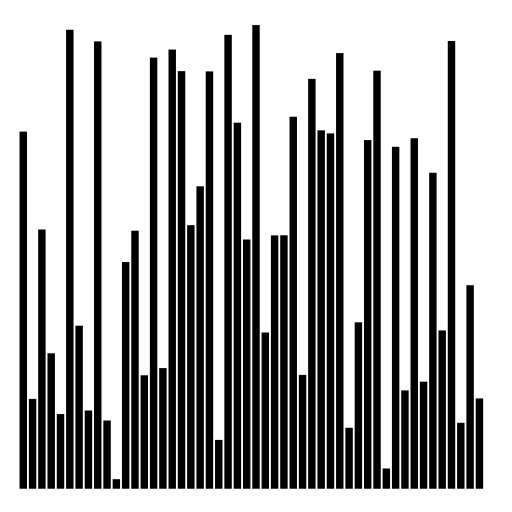
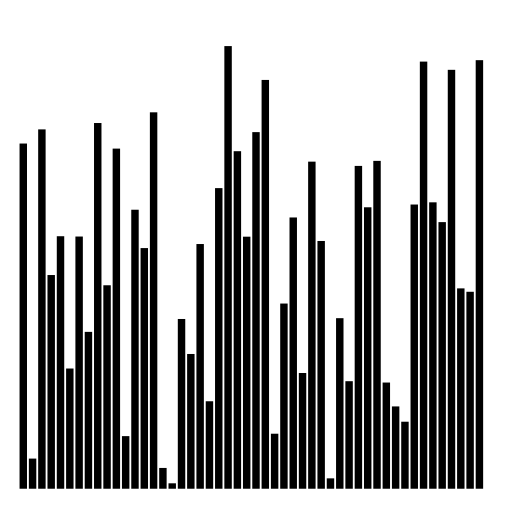
time to walk away

Changed region(s): [[0.0312, 0.0312, 0.5625, 0.9688], [0.5625, 0.0625, 0.9688, 0.9375]]

diff --git a/part2/objects.rst b/part2/objects.rst
@@ -23,9 +23,11 @@ Of course, Java is all about "objects" and object-oriented programming.  Here is
     
 This part gives the definition of our ``Obj`` class.  The compiler will use the definition to generate objects of this type when we ask for them.  Each object will have its own name, provided by us.  
 
-The class as a whole will keep track of the count of all objects of class ``Obj``.  The variable ``count`` is static, meaning that there is just one per class.  For "instantiation", the programmer will provide a String to use as the ``name``, and the "constuctor" function will be called (it has the same name as the class: ``public Obj(String s)``), during construction the count of objects will be incremented by one.
+The class as a whole will keep track of the count of all objects of class ``Obj``.  The variable ``count`` is static, meaning that there is just one per class.  For "instantiation", the programmer will provide a String to use as the ``name``.
 
-Once all the objects are constructed, the count remains constant, and each object will know the count of all ``Obj`` objects.
+The "constuctor" function will be called (it has the same name as the class: ``public Obj(String s)``), during construction the count of objects will be incremented by one.  The constructor is distinguished by not having a return type.
+
+Once all the objects are constructed, the count will remain constant, and each object will know the count of all ``Obj`` objects.
 
 To give a nice printable description of the class, we provide the ``toString`` function.
 
@@ -59,7 +61,9 @@ At the very top of the file add:
     
 The import makes the call ``Arrays.asList`` work.
     
-We "make" or "instantiate" three objects with the variable names shown (and also ``names`` are provided for each).  We make an ``ArrayList`` of the objects (there may be an easier way to do this that I don't know at the moment);  we'll have more to say about arrays and ArrayLists in just a bit.  Notice that this ArrayList has a function ``add`` for adding new elements to the array.
+We "make" or "instantiate" three objects with the variable names shown (and also ``names`` are provided for each).  
+
+We make an ``ArrayList`` of the objects (there may be an easier way to do this that I don't know at the moment);  we'll have more to say about arrays and ArrayLists in just a bit.  Notice that this ArrayList has a function ``add`` for adding new elements to the array.
 
 We use the ``for-each`` construct to iterate through the list and print out the description of each object.
 

diff --git a/part3/graphics.rst b/part3/graphics.rst
@@ -51,9 +51,9 @@ If you run this in the usual way, it will show the graphic in a window and also 
 The image looks like this:
 
 .. image:: /figures/example.png
-   :scale: 100 %
+   :scale: 75 %
 
-Here are two more examples that also uses ``StdDraw`` and in addition uses ``StdRandom``.  They are taken directly from code on Sedgewick and Wayne's site and/or in the book.
+Here are two more examples that also use ``StdDraw`` and in addition use ``StdRandom``.  They are taken directly from code on Sedgewick and Wayne's site and/or in the book.
 
 .. sourcecode:: java
 
@@ -78,17 +78,28 @@ Here are two more examples that also uses ``StdDraw`` and in addition uses ``Std
     >
 
 .. image:: /figures/gaussian.png
-   :scale: 100 %
+   :scale: 75 %
+   
+The following is spiffed up a little bit.  One problem I couldn't solve easily, how to draw the array of random numbers before *and* after sorting.  The drawing interferes with the sort.  To see what I mean, uncomment the line below.
+
+A relatively easy fix would be to make a copy of the first array, sort that, and then draw both.
 
 .. sourcecode:: java
 
+   import java.util.*;
+
    public class Test {
-       public static void main (String[] args) {
-           int N = 50;
+       public static double[] getNumbers(int N){
            double[] a = new double[N];
+           StdRandom.setSeed(137);
            for (int i = 0; i < N; i++) {
                a[i] = StdRandom.uniform();
            }
+           return a;
+       }
+
+       public static void drawIt(double[] a, String fn) {
+           int N = a.length;
            for (int i = 0; i < N; i++) {
                double x = 1.0*i/N;
                double y = a[i]/2.0;
@@ -96,8 +107,16 @@ Here are two more examples that also uses ``StdDraw`` and in addition uses ``Std
                double rh = a[i]/2.0;
                StdDraw.filledRectangle(x,y,rw,rh);
            }
-               StdDraw.save("dist.png");
-               System.exit(0);
+           StdDraw.save(fn);
+       }
+
+       public static void main (String[] args) {
+           int N = 50;
+           double [] a = getNumbers(N);
+           //drawIt(a, "dist.png");
+           Arrays.sort(a);
+           drawIt(a, "sorted.png");
+           System.exit(0);
        }
    }
        
@@ -108,4 +127,7 @@ Here are two more examples that also uses ``StdDraw`` and in addition uses ``Std
    >
 
 .. image:: /figures/dist.png
-  :scale: 100 %
+  :scale: 75 %
+
+.. image:: /figures/sorted.png
+  :scale: 75 %

diff --git a/part1/debug.rst b/part1/debug.rst
@@ -165,4 +165,6 @@ The first step toward a solution came when I removed both files:
     Hello, World
     >
 
-How can ``java Hello`` work?  There is no class file on the Desktop.  I infer that there must be another Hello.class somewhere on the computer, and in searching for classes the Java runtime is finding this other class first.  In Python I would look at ``sys.path`` to find the list of directories to search, but I am not sure how to do this in Java yet.  In any case, the take-home lesson is that bugs can be subtle and require inspired use of the scientific method to diagnose them.
+How can ``java Hello`` work?  There is no class file on the Desktop.  I infer that there must be another Hello.class somewhere on the computer, and in searching for classes the Java runtime is finding this other class first, even though the *compiler* finds this one first.  I can tell because the time stamp changes when I compile.
+
+In Python I would look at ``sys.path`` to find the list of directories to search, but I am not sure how to do this in Java yet.  In any case, the take-home lesson is that bugs can be subtle and require inspired use of the scientific method to diagnose them.

diff --git a/part1/array.rst b/part1/array.rst
@@ -115,7 +115,7 @@ Here is the output:
     a*b*c*de*
     >
 
-Quite to my surprise, I learned that even the basic array type has a sort method.  (To be technically accurate, I should say that the Arrays class has a method that takes an array argument and sorts it, in place).
+Quite to my surprise, I learned that even the basic array type can be sorted, the method is in ``Arrays``.  (To be technically accurate, I should say that the Arrays class has a method that takes an array argument and sorts it, in place).
 
 .. sourcecode:: java
 

diff --git a/part3/libraries.rst b/part3/libraries.rst
@@ -148,5 +148,5 @@ The "<" is a Unix redirect that feeds the file directly to the Java program.
 A new window opens and the points are plotted.  Here is a screenshot of the result.  You have to quit the window application to terminate.
 
 .. image:: /figures/USA.png
-   :scale: 100 %
+   :scale: 75 %
 
